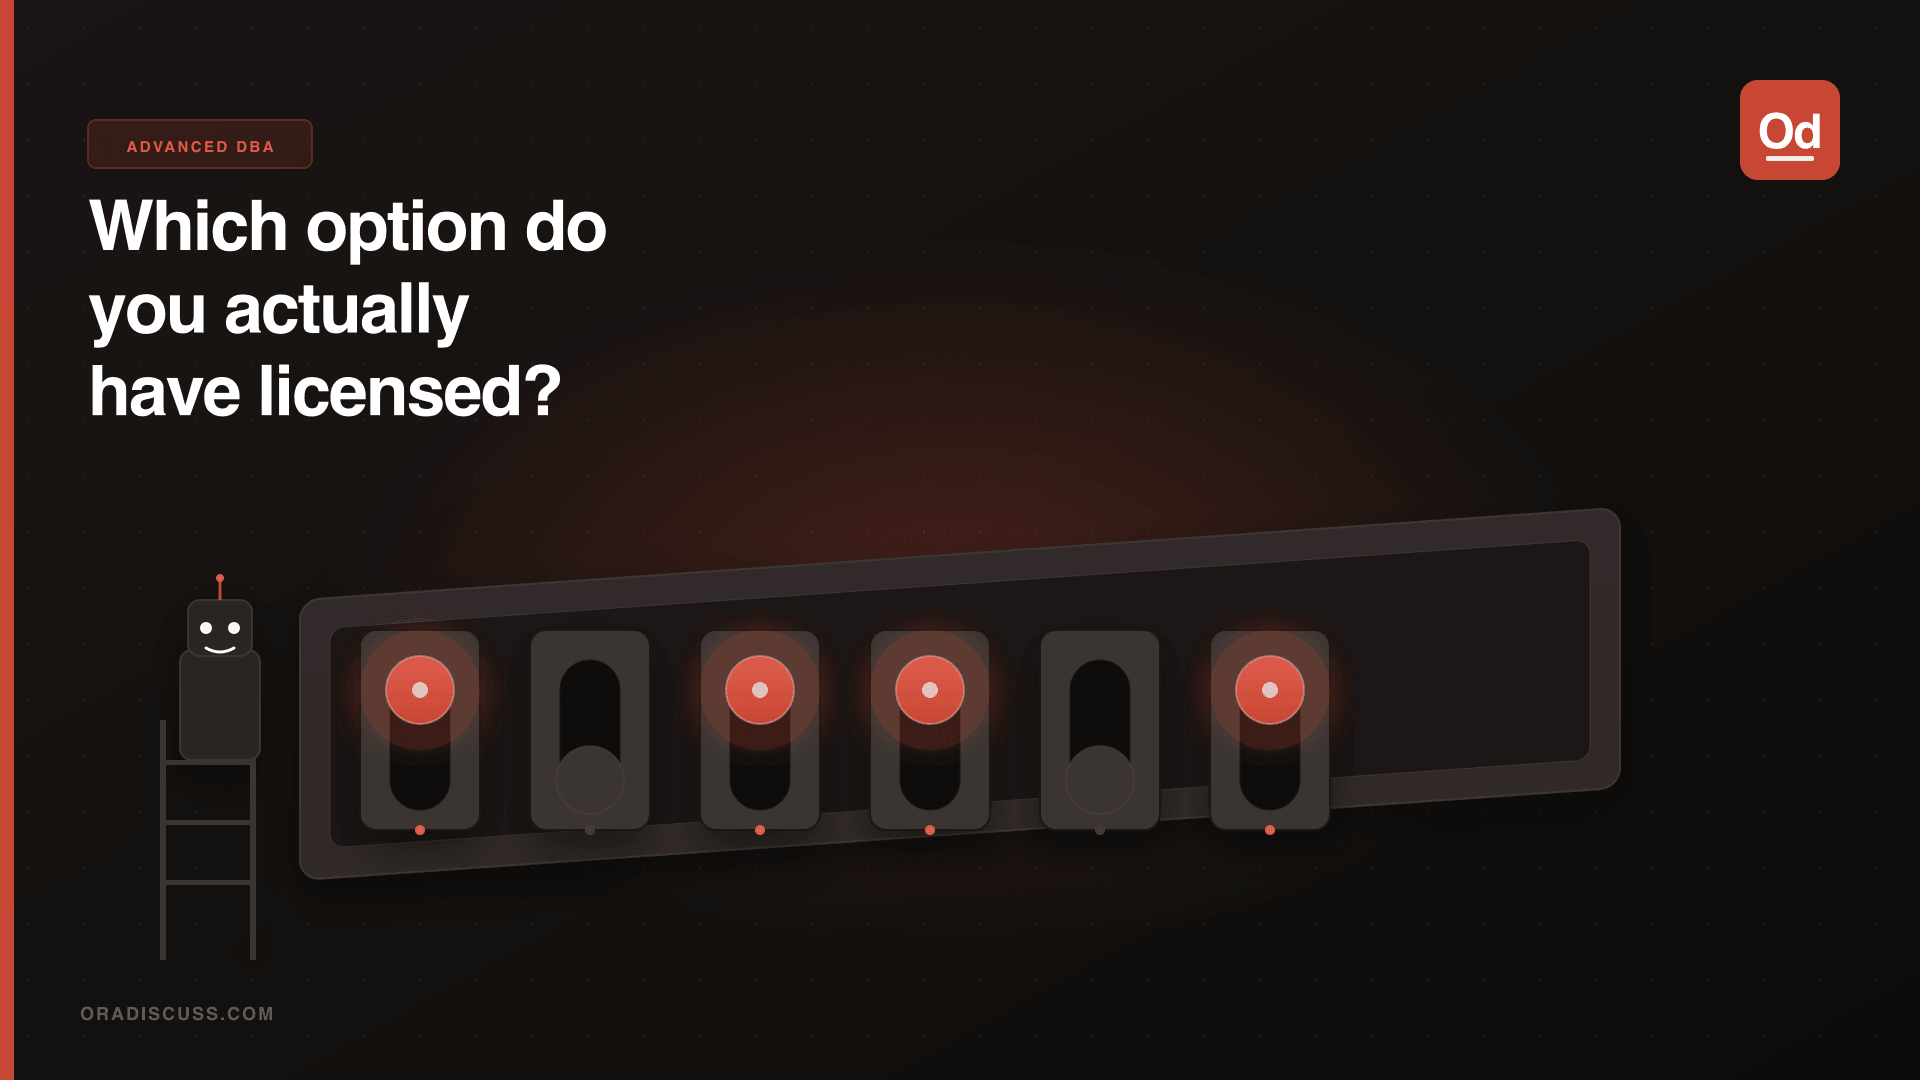
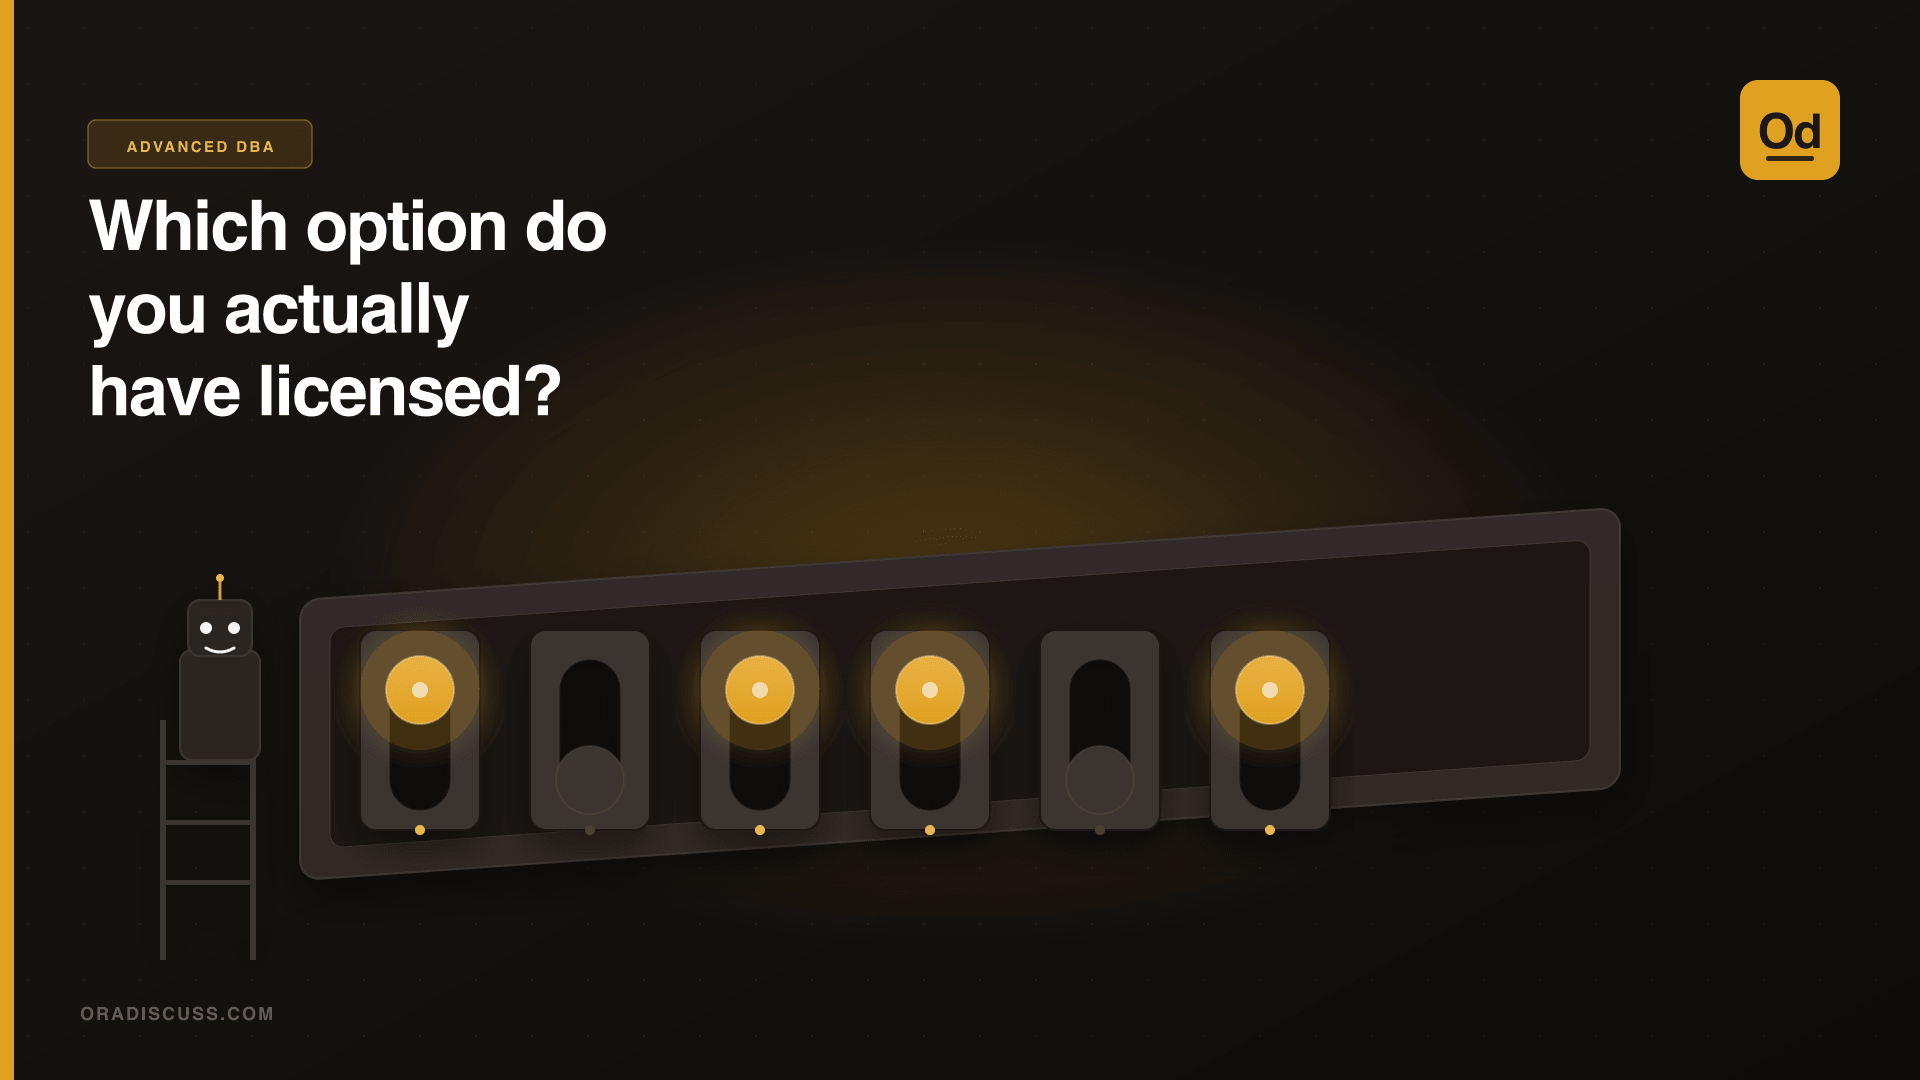
covers: redraw the 12 retired-red article covers into the ratified palette
Phase 2b left the article covers on the dropped Oracle red while the CSS
reground shipped. The 12 covers that render on live articles are now redrawn,
verified red-family-pixels = 0 by scripts/brand/check-brand-red.py:

- 8 dark cartoon covers (scripts/local-covers.mjs) re-skinned: red #c74634 ->
  signal gold #E0A020, red-hi #e86454 -> #EBB84D, Od chip text/underline flipped
  white -> ink #1C1917 for contrast on gold. Gold is the logo's own accent-on-dark.
- 4 light covers (parchment upgrade x2, cover-part3, zdt-oms) hue-remapped
  red -> amber in place, feathered by hue distance. The founder's hand-made art
  is preserved pixel-for-pixel; only the retired colour moved.

Two orphan covers (ZDT02.png, oradiscuss-omr-24ai-cover (1).png) are referenced
by no article (whole-repo sweep) and render nowhere, so they stay pinned pending
the founder's source-deletion call. brand.test.js Category A pins for the 12
redrawn covers are deleted as the guard instructs; register comment updated.

diff --git a/test/brand.test.js b/test/brand.test.js
@@ -230,20 +230,17 @@ test('the brand red register is exhaustive, so a red asset cannot hide by not be
 // a pinned one cannot quietly get redder, and FIXING one fails this test.
 // ---------------------------------------------------------------------------
 const KNOWN_RED_NESTED = {
-  // Category A: our own covers, retired identity. Fixing these closes the pin.
-  'images/blog/awr-is-talking-are-you-listening.png': 130249,
-  'images/blog/bidirectional-replication-12c.png': 106574,
-  'images/blog/cover-part3.png': 55984,
-  'images/blog/dbcs-to-exacs-migration-untold-story.png': 200285,
-  'images/blog/enable-disable-options-with-chopt.png': 116286,
-  'images/blog/fix-ora-01017-asmsnmp-missing.png': 524012,
-  'images/blog/gc-buffer-busy-acquired-rac.png': 201608,
-  'images/blog/online-partition-dbms-redefinition.png': 77727,
-  'images/blog/rman-backup-progress-monitoring.png': 80528,
+  // Category A: our own covers in the retired red identity. Phase 2b (15 Aug
+  // 2026) redrew the 12 that render on live articles into the ratified palette:
+  // the 8 dark cartoon covers were re-skinned gold #E0A020 via
+  // scripts/local-covers.mjs, and the 4 light covers were hue-remapped red->amber
+  // in place (the founder's hand-made art preserved, only the retired colour
+  // moved). Each pin is DELETED as this guard instructs once its cover is redrawn.
+  // What remains are two ORPHANS: on disk but referenced by no article anywhere
+  // in the repo (whole-repo sweep, 15 Aug 2026), so they render nowhere and are
+  // not a launch seam. They stay pinned until the founder rules on deleting the
+  // files themselves (source deletion is his gate).
   'images/blog/ZDT02.png': 10851,
-  'images/blog/oradiscuss-zdt-oms-24108-cover-1920x764.png': 9528,
-  'images/blog/oradiscuss-db-19-28-to-19-30-cover.png': 36031,
-  'images/blog/oradiscuss-db-19-28-to-19-30-cover-1920x764.png': 36033,
   'images/blog/oradiscuss-omr-24ai-cover (1).png': 37612,
   // Category B: Oracle's own product surfaces. Red here is theirs, not ours.
   'images/blog/OEM24aiR8.png': 39805,
